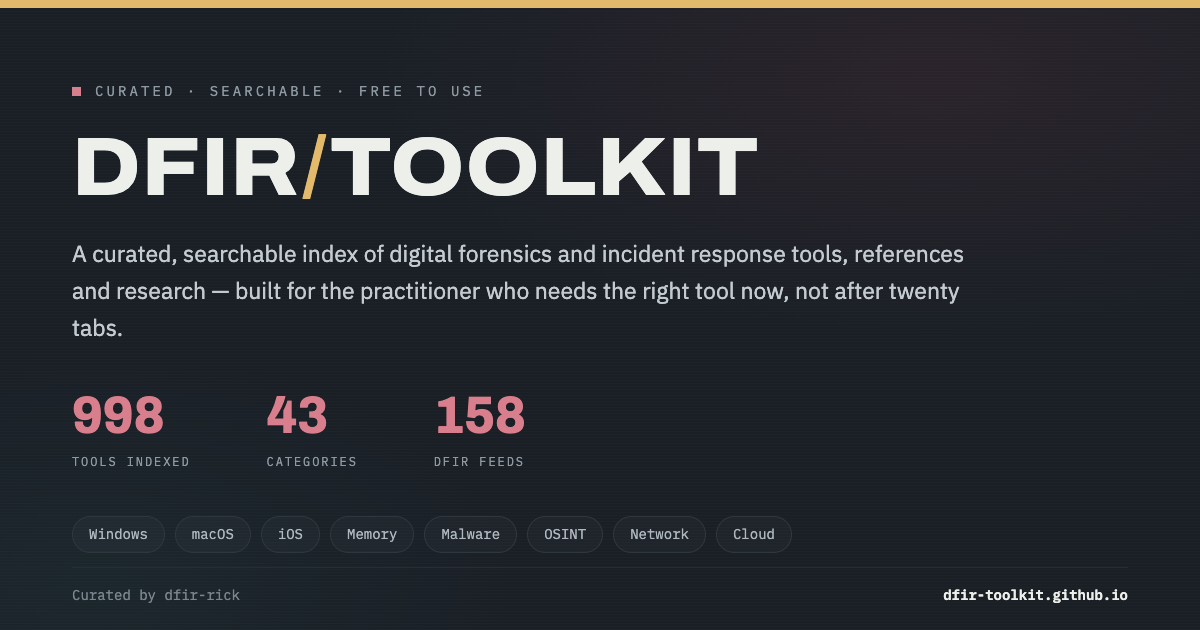
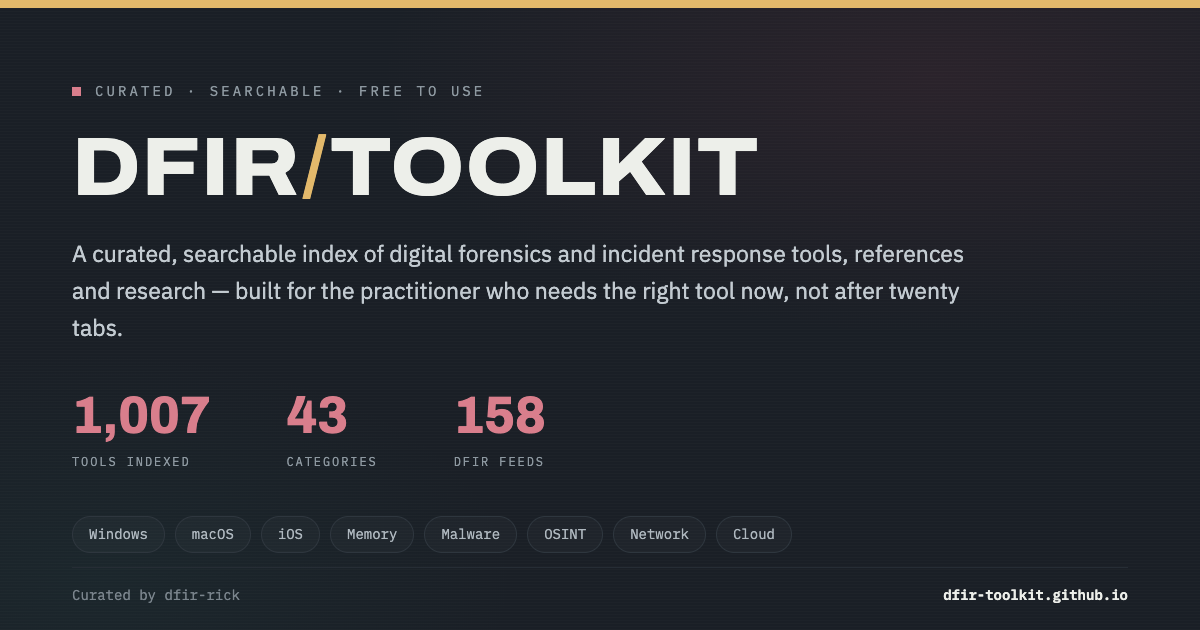
update
tools and search optimizations

diff --git a/index.html b/index.html
@@ -9,24 +9,24 @@
 <meta name="author" content="dfir-rick">
 <meta name="license" content="https://creativecommons.org/licenses/by/4.0/">
 <link rel="license" href="https://creativecommons.org/licenses/by/4.0/">
-<meta name="description" content="DFIR Toolkit — a curated, searchable index of 998 digital forensics and incident response tools, resources and references. Curated by dfir-rick.">
+<meta name="description" content="DFIR Toolkit — a curated, searchable index of 1,007 digital forensics and incident response tools, resources and references. Curated by dfir-rick.">
 <title>DFIR Toolkit — Digital Forensics &amp; Incident Response</title>
 
 <!-- Open Graph / LinkedIn / Facebook preview card -->
 <meta property="og:type" content="website">
 <meta property="og:url" content="https://dfir-toolkit.github.io/">
 <meta property="og:title" content="DFIR Toolkit — Digital Forensics &amp; Incident Response">
-<meta property="og:description" content="A curated, searchable index of 998 digital forensics and incident response tools, references and research. Free, no login, updated continuously.">
+<meta property="og:description" content="A curated, searchable index of 1,007 digital forensics and incident response tools, references and research. Free, no login, updated continuously.">
 <meta property="og:image" content="https://dfir-toolkit.github.io/og-preview.png">
 <meta property="og:image:width" content="1200">
 <meta property="og:image:height" content="630">
-<meta property="og:image:alt" content="DFIR Toolkit — 998 tools indexed across 43 categories">
+<meta property="og:image:alt" content="DFIR Toolkit — 1,007 tools indexed across 43 categories">
 <meta property="og:site_name" content="DFIR Toolkit">
 
 <!-- Twitter/X card (falls back to the same og:image) -->
 <meta name="twitter:card" content="summary_large_image">
 <meta name="twitter:title" content="DFIR Toolkit — Digital Forensics &amp; Incident Response">
-<meta name="twitter:description" content="A curated, searchable index of 998 digital forensics and incident response tools, references and research.">
+<meta name="twitter:description" content="A curated, searchable index of 1,007 digital forensics and incident response tools, references and research.">
 <meta name="twitter:image" content="https://dfir-toolkit.github.io/og-preview.png">
 <link rel="preconnect" href="https://fonts.googleapis.com">
 <link rel="preconnect" href="https://fonts.gstatic.com" crossorigin>
@@ -1202,7 +1202,7 @@ body:has(#opening) .mast{box-shadow:none;border-bottom:none}
     <dt><a href="https://www.sans.org/posters/" data-ext="1" target="_blank" rel="noopener">SANS</a>, <a href="https://www.cisa.gov/" data-ext="1" target="_blank" rel="noopener">CISA</a> &amp; <a href="https://www.nist.gov/" data-ext="1" target="_blank" rel="noopener">NIST</a></dt>
     <dd>Posters, playbooks, reference data and the standards this field is measured against.</dd>
   </dl>
-  <p class="cnote">And to every author of the <span id="creditsCount">998</span> tools listed here. Each remains the property of its
+  <p class="cnote">And to every author of the <span id="creditsCount">1007</span> tools listed here. Each remains the property of its
   creator under its own licence. If your work is described wrongly, that is my error, not theirs.</p>
 </div></div>
 <div class="help" id="help"><div class="help-in">
@@ -1401,7 +1401,9 @@ const T=[
 ["MFTExplorer","https://ericzimmerman.github.io/","GUI for exploring the $MFT as a live folder tree, letting you click through directories and inspect individual file records with all attributes decoded.","free",["win"],["win"],"tool","gui"],
 ["RustyUsn","https://github.com/forensicmatt/RustyUsn","Fast Rust parser for the NTFS USN journal, built for very large journals where Python parsers become impractical.","oss",["win"],["xplat"],"tool","cli"],
 ["INDXParse","https://github.com/williballenthin/INDXParse","Willi Ballenthin's suite for inspecting NTFS INDX records, recovering entries for files deleted from a directory but still present in slack within the index.","oss",["win"],["xplat"],"tool","gui"],
-["Usnjrnl Rewind","https://github.com/CyberCX-DFIR/usnjrnl_rewind","CyberCX script that rewinds the USN journal to rebuild the true full path of every entry, eliminating the Unknown paths that MFTECmd leaves when parent records were reused.","oss",["win"],["win"],"tool","cli"]
+["Usnjrnl Rewind","https://github.com/CyberCX-DFIR/usnjrnl_rewind","CyberCX script that rewinds the USN journal to rebuild the true full path of every entry, eliminating the Unknown paths that MFTECmd leaves when parent records were reused.","oss",["win"],["win"],"tool","cli"],
+["Hex Fiend","https://github.com/HexFiend/HexFiend","macOS hex editor that inserts, deletes and rearranges rather than only overwriting in place, and works on files far larger than RAM — tested past 118 GB, with nothing held in memory. Includes a data inspector that reads a selection as signed or unsigned integer or float in either endianness, binary templates for mapping structure, and a binary diff that accounts for insertions.","oss",["any"],["mac"],"tool","gui"],
+["GNU poke","https://www.jemarch.net/poke","Extensible editor for structured binary data, built around its own domain-specific language for describing formats. Where a hex editor shows bytes, poke lets you define what those bytes mean and then read and edit through that definition.","oss",["any"],["nix","mac"],"tool","cli"]
 ]],
 ["Windows",[
 ["ArtifactExtractor","https://github.com/Silv3rHorn/ArtifactExtractor","Extracts common Windows artifacts from forensic images and volume shadow copies, hashing artifacts in each VSC so only versions that differ from a later copy are pulled. Saves the manual work of mounting each shadow copy in turn.","oss",["win"],["win"],"tool","cli"],
@@ -1644,7 +1646,7 @@ const T=[
 ["Smap","https://github.com/s0md3v/Smap","Drop-in Nmap replacement that queries Shodan's data instead of scanning, giving port and service information without touching the target.","oss",["net"],["xplat"],"tool","cli"],
 ["dirsearch","https://github.com/maurosoria/dirsearch","Web path discovery tool for enumerating directories and files on a web server, useful when reconstructing what an attacker probed or what was exposed.","oss",["net"],["web"],"tool","web"],
 ["Feroxbuster","https://github.com/epi052/feroxbuster","Fast recursive content discovery tool for web servers, written in Rust with sensible defaults for deep enumeration.","oss",["net"],["xplat"],"tool","cli"],
-["SO-CRATES","https://github.com/dougburks/so-crates","Security Onion Containerized Rapid Analysis of Threats, Evil, and Sus. Spins up containerised Security Onion analysis for fast triage of a capture without standing up the full platform.","oss",["net"],["nix"],"tool","cli"],
+["SO-CRATES","https://github.com/dougburks/so-crates","Security Onion Containerized Rapid Analysis of Threats, Evil, and Sus. Standalone web application that takes a pcap, a log file or a binary and analyses it in place: Suricata for network traffic, YARA against binaries, Sigma rules over logs, with one page for browsing the resulting alerts, metadata, transcripts and hexdumps. Runs under Docker or Podman, so a capture gets triaged without standing up the full platform.","oss",["any"],["nix"],"tool","web"],
 ["Wireshark","https://www.wireshark.org/","The reference packet analyser, with dissectors for thousands of protocols. Follow streams, export objects, and build display filters that isolate exactly the traffic in question. tshark handles the same work on captures too large for the GUI.","oss",["net"],["xplat"],"tool","gui"],
 ["tcpdump","https://www.tcpdump.org/","Portable libpcap capture tool present on nearly every Unix system. When you need packets from a server right now with nothing installed, this is what is already there.","oss",["net"],["nix"],"tool","cli"],
 ["NetworkMiner","https://www.netresec.com/?page=NetworkMiner","Passive analysis tool that reorganises a capture by host rather than by packet, extracting transferred files, images, credentials and certificates automatically. Often answers what was taken faster than filtering packets by hand.","free",["net"],["win"],"tool","gui"],
@@ -1823,7 +1825,10 @@ const T=[
 ["Rumkin Cipher Tools","https://rumkin.com/tools/cipher/","Long-standing collection of classical cipher encoders and decoders, still the quickest option for the traditional schemes.","free",["any"],["web"],"tool","web"],
 ["StegOnline","https://georgeom.net/StegOnline/","Browser tool for exploring bit planes, extracting LSB data and inspecting image structure. Practical for steganography questions and for CTF-style challenges.","oss",["any"],["web"],"tool","web gui"],
 ["zsteg","https://github.com/zed-0xff/zsteg","Detects LSB steganography and hidden data in PNG and BMP files, testing many bit-order and channel combinations automatically rather than requiring you to guess.","oss",["any"],["nix","mac"],"tool","cli"],
-["Aletheia","https://github.com/daniellerch/aletheia","Steganalysis by machine learning rather than signature — detects F5, Steghide, Outguess, nsF5, J-UNIWARD, LSB replacement and matching, and adaptive schemes in JPEG and uncompressed images, reporting a probability per method with a confidence figure. Answers whether a picture is carrying a payload, which the stego extraction tools cannot.","oss",["any"],["xplat"],"tool","cli"]
+["Aletheia","https://github.com/daniellerch/aletheia","Steganalysis by machine learning rather than signature — detects F5, Steghide, Outguess, nsF5, J-UNIWARD, LSB replacement and matching, and adaptive schemes in JPEG and uncompressed images, reporting a probability per method with a confidence figure. Answers whether a picture is carrying a payload, which the stego extraction tools cannot.","oss",["any"],["xplat"],"tool","cli"],
+["fq","https://github.com/wader/fq","jq for binary formats: a structural hex viewer with a query language, so you interrogate bytes instead of counting them by eye. Decodes nested formats down to bit level and slices binary data, covering bplist, apple_bookmark, protobuf, leveldb, pcap, mach-o, elf and around 150 others. The interactive REPL makes it a good way to learn how a format is actually laid out.","oss",["any"],["xplat"],"tool","cli"],
+["hexyl","https://github.com/sharkdp/hexyl","Terminal hex viewer that colours bytes by category — nulls, printable ASCII, whitespace, other ASCII, non-ASCII — so structure and padding are visible at a glance rather than inferred from a wall of digits. Packaged for most distributions, macOS and Windows.","oss",["any"],["xplat"],"tool","cli"],
+["xxd","https://man7.org/linux/man-pages/man1/xxd.1.html","Makes a hex dump, and reverses one back into binary — the second half being what turns it into a patching tool. Ships with vim, so it is present on almost any Linux or macOS host without installing anything.","oss",["any"],["nix","mac"],"tool","cli"]
 ]],
 ["Malware Analysis & Sandboxes",[
 ["Valhalla","https://valhalla.nextron-systems.com/","Nextron's curated, quality-tested YARA rule feed — the rule source behind their THOR and LOKI scanners, with a free public tier searchable by hash, filename or rule name. Useful independent of Nextron's own tools: check a hash or sample against Valhalla's rule set even if you are running a different YARA-based scanner.","free",["any"],["web"],"intel",""],
@@ -1888,7 +1893,8 @@ const T=[
 ["Apktool","https://apktool.org/","Decodes an APK back to near-original form — resources to readable XML, AndroidManifest.xml out of binary encoding, code to smali — then rebuilds and resigns it. The first step in almost any APK examination, since a packaged manifest tells you nothing until it is decoded.","oss",["and"],["xplat"],"tool","cli"],
 ["Androguard","https://github.com/androguard/androguard","Python library and CLI for dissecting APK, DEX and ODEX: permissions, activities, receivers, certificates, strings, and call graphs you can query programmatically. The engine several other Android analysis tools are built on, and the right choice when you need to script across a corpus of apps rather than examine one.","oss",["and"],["xplat"],"tool","cli"],
 ["MobSF (Mobile Security Framework)","https://github.com/MobSF/Mobile-Security-Framework-MobSF","Static and dynamic analysis of mobile app binaries — APK, IPA, APPX and source — through a web UI: permissions, hardcoded secrets, certificate details, trackers, network calls, and an instrumented runtime for Android and iOS. Runs in Docker, so a suspect app can be examined without installing an analysis stack on the host.","oss",["and","ios"],["xplat"],"tool","gui web"],
-["objection","https://github.com/sensepost/objection","Frida-powered runtime exploration of a mobile app without jailbreaking or rooting: browse the app sandbox, dump keychain and shared preferences, inspect classes and invoke methods on a live process. Useful when an app holds evidence only in memory or decrypts it on demand.","oss",["and","ios"],["xplat"],"tool","cli"]
+["objection","https://github.com/sensepost/objection","Frida-powered runtime exploration of a mobile app without jailbreaking or rooting: browse the app sandbox, dump keychain and shared preferences, inspect classes and invoke methods on a live process. Useful when an app holds evidence only in memory or decrypts it on demand.","oss",["and","ios"],["xplat"],"tool","cli"],
+["Kaitai Struct","https://kaitai.io/","Declarative language for describing binary formats, which then compiles into parsing code for a dozen languages — describe a structure once instead of writing a parser per language. The web IDE parses a file against a definition and shows the hex alongside the resolved tree, which is a fast way to work out an undocumented format.","oss",["any"],["xplat","web"],"tool","gui cli"]
 ]],
 ["Ransomware",[
 ["ID Ransomware","https://id-ransomware.malwarehunterteam.com/","Identifies which ransomware family hit you from a ransom note, a sample encrypted file, or the attacker contact details. Covers 1,000+ families. The first thing to run, because family identification determines whether a free decryptor exists.","free",["any"],["web"],"tool","web"],
@@ -2092,7 +2098,9 @@ const T=[
 ["Object by Object — RealmDB Forensics with crush","https://bebinary4n6.blogspot.com/2026/05/object-by-object-realmdb-forensics-with.html","Realm internals for examiners: how the header, schema and class definitions are laid out, how top-ref comparison exposes earlier states of the database, and what that means when an app stores its data in Realm rather than SQLite.","free",["any"],["web"],"reference",""],
 ["Reading the CURRENT — LevelDB Forensics with crush","https://bebinary4n6.blogspot.com/2026/05/reading-current-leveldb-forensics-with.html","LevelDB is a folder, not a file — .log and .ldb files alongside MANIFEST, CURRENT and LOG — which is why tools built around single-file signatures walk straight past it. Covers tombstones, compaction and what survives deletion in Chrome, Electron apps, iOS and Android.","free",["any"],["web"],"reference",""],
 ["Beyond the C — SEGB and Biome Forensics with crush","https://bebinary4n6.blogspot.com/2026/05/beyond-c-segb-and-biome-forensics-with.html","SEGB v1 and v2 structure, the trailer section iOS 17 added, and how Apple Biome records decode once the protobuf payloads are unpacked — including the nested and repeated fields most viewers flatten or drop.","free",["ios","mac"],["web"],"reference",""],
-["Reading Protobuf Wire Format Without a Map","https://bebinary4n6.blogspot.com/2026/06/reading-wire-protobuf-without-map.html","How to read protobuf when you have no .proto schema: field numbers, wire types, and what can and cannot be recovered from the bytes alone. The reference for every BLOB in a mobile database that turns out to be protobuf.","free",["any"],["web"],"reference",""]
+["Reading Protobuf Wire Format Without a Map","https://bebinary4n6.blogspot.com/2026/06/reading-wire-protobuf-without-map.html","How to read protobuf when you have no .proto schema: field numbers, wire types, and what can and cannot be recovered from the bytes alone. The reference for every BLOB in a mobile database that turns out to be protobuf.","free",["any"],["web"],"reference",""],
+["ImHex Pattern Library","https://github.com/WerWolv/ImHex-Patterns","Community database of format definitions for ImHex, including a DFIR set: NTFS, exFAT and FAT32 with a recursive disk and volume parser, plus $I Recycle Bin records, prefetch, Shell Link (.lnk), EVTX, thumbcache, the shim database and Notepad cache and state files. Load one and the raw bytes resolve into named fields, which is the fastest way to see how an artifact is really built. Also ships custom character encodings including EBCDIC and Shift-JIS.","oss",["any"],["xplat"],"tool","gui"],
+["Kaitai Struct Format Gallery","https://formats.kaitai.io/","Machine-readable specifications for a few hundred file formats and network protocols, each with the field layout, types and offsets. Useful as documentation even when you never run the compiler: it answers what byte 8 of a header means.","oss",["any"],["web"],"reading","web"]
 ]],
 ["Standards & Methodology",[
 ["Blue Team Handbook: Incident Response Edition","https://www.amazon.com/Blue-Team-Handbook-Incident-Response/dp/1500734756","Don Murdoch's zero-fluff field reference for incident responders covering the IR process, attacker methodology, common tools, network analysis methodology, IOC identification, Windows and Linux analysis, tcpdump and Snort usage. Designed to sit on the desk during an active incident.","com",["any"],["web"],"reference",""],
@@ -2299,7 +2307,8 @@ const T=[
 ["CAINE","https://www.caine-live.net/","Italian live forensic distribution with write-blocking enabled by default and a coherent GUI over the underlying tools. Popular for on-scene work where booting the suspect machine is unavoidable.","oss",["any"],["nix"],"tool","gui cli"],
 ["Tsurugi Linux","https://tsurugi-linux.org/","DFIR and OSINT distribution shipping in lab, acquisition and bento editions. Includes tooling other distributions omit, particularly for OSINT and malware analysis.","free",["any"],["nix"],"tool","gui cli"],
 ["Kali Linux","https://www.kali.org/","Primarily an offensive security distribution, but its forensic boot mode disables swap and auto-mounting for safe examination, and it carries a substantial forensic tool set.","oss",["any"],["nix"],"tool","gui cli"],
-["FLARE VM","https://github.com/mandiant/flare-vm","Mandiant's install script that converts a clean Windows VM into a fully equipped malware analysis workstation. Package-based, so you can update the toolset without rebuilding the machine.","oss",["any"],["win"],"tool","cli"]
+["FLARE VM","https://github.com/mandiant/flare-vm","Mandiant's install script that converts a clean Windows VM into a fully equipped malware analysis workstation. Package-based, so you can update the toolset without rebuilding the machine.","oss",["any"],["win"],"tool","cli"],
+["Win-FOR","https://github.com/digitalsleuth/WIN-FOR","Turns a bare Windows 11 VM into a forensic workstation through a graphical installer: tick the tools you want rather than taking all of them, and optionally install WSLv2 with SIFT, REMnux, Kali or all three alongside. Selections save to a SaltStack state file, so a lab build is reproducible and documented rather than remembered. An offline mode downloads the packages first for transfer to an air-gapped machine.","oss",["any"],["win"],"tool","gui"]
 ]],
 ["Test Images & Datasets",[
 ["DFIR Artifact Museum","https://github.com/AndrewRathbun/DFIRArtifactMuseum","Community archive of real artifacts collected from many operating system versions and sorted by type, so a parser can be written or validated against known data without generating it first. Useful for tool validation and for seeing what an artifact looks like on a platform you do not run.","oss",["win","mac","nix","ios","and"],["xplat"],"reference",""],
@@ -2370,7 +2379,17 @@ const CAPS = {
  "Hayabusa":"evtx event logs sigma detection rules timeline windows",
  "Zircolite":"evtx event logs sigma detection rules auditd",
  "KStrike":"user access logging ual windows server",
- "Timesketch":"plaso timeline supertimeline collaboration analysis"
+ "Timesketch":"plaso timeline supertimeline collaboration analysis",
+ "fq":"hex hexadecimal binary structure endianness bit offset byte order structural hex viewer bplist protobuf leveldb pcap",
+ "hexyl":"hex hexadecimal hex dump byte offset ascii null byte",
+ "xxd":"hex hexadecimal hex dump byte offset patching",
+ "Hex Fiend":"hex hexadecimal hex editor endianness big endian little endian data inspector binary template byte offset binary diff",
+ "GNU poke":"hex hexadecimal binary structure byte offset endianness",
+ "Kaitai Struct":"hex hexadecimal binary structure file format specification offset endianness magic byte file signature header",
+ "ImHex Pattern Library":"hex hexadecimal binary template pattern file signature magic byte header offset ntfs exfat fat32 prefetch lnk evtx thumbcache recycle bin shim database encoding ebcdic",
+ "Kaitai Struct Format Gallery":"hex hexadecimal file format specification header offset endianness magic byte file signature",
+ "Win-FOR":"forensic workstation lab build sift remnux kali wsl saltstack provisioning offline install",
+ "SO-CRATES":"pcap packet capture suricata yara sigma hexdump transcript alert triage"
 };
 
 /* Interface: GUI, command line, or runs in a browser. Not a field in the data,
@@ -2450,6 +2469,13 @@ function buildItems(){
                                          : ifaceOf(n, d, runs, type, u, c);
     ITEMS.push({i:ID++, n, u, d, c, p, runs, cat, custom:!!isCustom,
       orig:orig||null, k:n+"|"+cat, type, caps, iface,
+      /* Per-field lowercase copies so relevance can tell WHERE a term matched,
+         not just whether it did. */
+      nl:n.toLowerCase(), dl:d.toLowerCase(), catl:cat.toLowerCase(),
+      /* The opening of a description is where a tool states its purpose, so a
+         term appearing there outranks the same term mentioned in passing. */
+      dl0:d.slice(0,90).toLowerCase(),
+      capl:(caps||"").toLowerCase(),
       hay:(n+" "+d+" "+cat+" "+p.map(x=>PLAT[x]).join(" ")+" "
            +runs.map(x=>HOST[x]).join(" ")+" "+COST[c][0]+" "+type+" "+caps+" "+[...iface].map(x=>IFACE[x]).join(" ")+" "+[...iface].join(" ")).toLowerCase()});
   };
@@ -2619,7 +2645,16 @@ const ALSO_IN={
  "objection":["Android","iOS"],
  "quark-engine":["Android","Reverse Engineering & Debugging"],
  "Linpmem":["Linux"],
- "Aletheia":["Image & Video"]
+ "Aletheia":["Image & Video"],
+ "fq":["Logs & Data Processing","Reverse Engineering & Debugging"],
+ "hexyl":["Linux"],
+ "xxd":["Linux","macOS"],
+ "Hex Fiend":["macOS"],
+ "GNU poke":["Linux"],
+ "Kaitai Struct":["Ciphers & Decoding","Artifact References"],
+ "ImHex Pattern Library":["Disk & File System","Windows"],
+ "Kaitai Struct Format Gallery":["Standards & Methodology"],
+ "Win-FOR":["Workstation & General","Windows"]
 };
 const ACCENT={};
 GROUPS.forEach(([label,list],i)=>list.forEach(c=>ACCENT[c]="var(--g"+(i+1)+")"));
@@ -2982,8 +3017,19 @@ function extQuery(t){
 const esc4re=s=>s.replace(/[.*+?^${}()|[\]\\]/g,"\\$&");
 const hitShort=(hay,a)=>new RegExp("(?:^|[^a-z0-9])"+esc4re(a)+"(?:[^a-z0-9]|$)").test(hay);
 const hitExt=(hay,a)=>new RegExp("(?:^|[^a-z0-9])"+esc4re(a)+"s?(?:[^a-z0-9]|$)").test(hay);
-const hitPhrase=(hay,a)=>a.length<3?hitShort(hay,a)
-  :variants(a).some(v=>v.length>2&&hay.includes(v));
+/* The term as typed is matched as a substring, so "prefetch" still finds
+   WinPrefetchView. Generated stems are NOT: stemming "carving" yields "carv",
+   and a raw substring match on that hits "Harlan Carvey's", which put a registry
+   parser in the top tier of a carving search. Stems instead match on a word
+   boundary with a controlled set of inflectional endings, so "carv" reaches
+   carve, carved, carver and carving but never Carvey. */
+const STEM_SUF="(?:e|es|ed|s|ing|ings|er|ers|ion|ions)?";
+const hitStem=(hay,s)=>new RegExp("(?:^|[^a-z0-9])"+esc4re(s)+STEM_SUF+"(?:[^a-z0-9]|$)").test(hay);
+const hitPhrase=(hay,a)=>{
+  if(a.length<3) return hitShort(hay,a);
+  if(hay.includes(a)) return true;
+  return variants(a).slice(1).some(v=>v.length>2&&hitStem(hay,v));
+};
 function hit(hay,t){
   const ex=extQuery(t);
   /* Single-word mappings are boundary-matched for the same reason the bare token
@@ -3010,17 +3056,23 @@ function hl(text){
   const ts=terms(); let out=esc(text);
   if(!ts.length) return out;
   const esc2=x=>x.replace(/[.*+?^${}()|[\]\\]/g,"\\$&");
-  const long=[...new Set(ts.flatMap(t=>variants(t).filter(v=>v.length>2)))]
+  /* Terms as typed highlight as plain substrings; generated stems get the same
+     bounded treatment hit() gives them, so a "carving" search does not mark
+     "Carv" inside "Carvey". */
+  const long=[...new Set(ts.filter(t=>t.length>2))]
     .sort((a,b)=>b.length-a.length).map(esc2);
+  const stems=[...new Set(ts.flatMap(t=>variants(t).slice(1).filter(v=>v.length>2)))]
+    .filter(v=>!long.includes(v)).sort((a,b)=>b.length-a.length).map(esc2);
   /* Short terms match on a word boundary in hit(), so highlight them the same
      way — an unbounded substring would mark the "ip" inside "script". Never let
      pats end up empty: new RegExp("()") matches at every position and wraps a
      <mark> around every character in the card. */
   const short=[...new Set(ts.filter(t=>t.length<3))].map(esc2);
   let re=null;
-  if(long.length||short.length){
+  if(long.length||short.length||stems.length){
     try{
-      const bounded=short.map(a=>"(?<![a-z0-9])"+a+"(?![a-z0-9])");
+      const bounded=short.map(a=>"(?<![a-z0-9])"+a+"(?![a-z0-9])")
+        .concat(stems.map(a=>"(?<![a-z0-9])"+a+STEM_SUF+"(?![a-z0-9])"));
       re=new RegExp("("+long.concat(bounded).join("|")+")","ig");
     }catch(e){ re=long.length?new RegExp("("+long.join("|")+")","ig"):null; }
   }
@@ -3070,11 +3122,41 @@ function capTags(it){
   if(!found.length) return "";
   return found.slice(0,3).map(t=>'<span class="tag cap" title="Handles this artifact — not named in the description above">\u25C6 '+esc(t)+'</span>').join("");
 }
+/* Relevance. A broad collection suite matches an artifact only through the
+   capability index — KAPE, FTK Imager and Autopsy never say "prefetch" in their
+   own description — while a dedicated parser names it outright. Weighting the
+   field a term matched in therefore separates the tool that answers the query
+   from the tool that merely bags the file, without needing a hand-maintained
+   list of which is which. Zero when nothing is typed, so browsing keeps its
+   normal order. */
+/* A tool sitting in the category named for the query is a stronger signal than
+   a suite that mentions the word once in passing, so catl outranks dl. */
+const FIELD_W=[["nl",100],["dl0",45],["catl",35],["dl",30],["capl",4]];
+function matchScore(it){
+  const gs=groups();
+  if(!gs.length) return 0;
+  let best=0;
+  for(const g of gs){
+    let sum=0, ok=true;
+    for(const t of g){
+      let w=0;
+      for(const fw of FIELD_W) if(hit(it[fw[0]],t)){ w=fw[1]; break; }
+      /* Matched only on platform, cost or interface metadata. */
+      if(!w) w = hit(it.hay,t) ? 1 : 0;
+      if(!w){ ok=false; break; }
+      sum+=w;
+    }
+    if(ok && sum>best) best=sum;
+  }
+  return best;
+}
+
 const visible=()=>ITEMS.filter(match);
 const pinnedItems=()=>[...state.pins].map(k=>ITEMS.find(x=>x.k===k)).filter(Boolean);
 
 function render(){
   const vis=visible(), R=$("#results");
+  syncSortLabel();
   /* A query runs across every entry, so a tool search drags in every blog
      post and cheat sheet that merely mentions the artifact. Tools answer the
      query; the reading material collapses underneath rather than disappearing,
@@ -3116,11 +3198,38 @@ function render(){
       });
     });
     const keys=new Set([...byCat.keys(),...xtra.keys()]);
-    const ordered=cats().filter(c=>keys.has(c)).map(c=>{
-      const own=(byCat.get(c)||[]).slice().sort(byName);
-      const alt=(xtra.get(c)||[]).slice().sort(byName);
+    /* While searching, order by relevance instead of taxonomy: strongest match
+       first within a category, and categories themselves ranked by their best
+       match, so searching an artifact leads with the tools built for it rather
+       than whichever category happens to come first in the taxonomy. Without a
+       query this is inert and the normal category order and A-Z hold. */
+    const ranked = !!state.q.trim();
+    const score=new Map();
+    const sc=it=>{ const k=it.k+"|"+(it.xref||""); if(!score.has(k)) score.set(k,matchScore(it)); return score.get(k); };
+    const byRank=(a,b)=>sc(b)-sc(a)||byName(a,b);
+    const cmp = ranked?byRank:byName;
+    let ordered=cats().filter(c=>keys.has(c)).map(c=>{
+      const own=(byCat.get(c)||[]).slice().sort(cmp);
+      const alt=(xtra.get(c)||[]).slice().sort(cmp);
       return [c,own.concat(alt)];
     });
+    /* Ordering categories by their single best match ties too easily — six
+       categories peaked at 45 for "carving", so taxonomy order decided it and
+       the category actually named "Recovery & Carving" came fourth. Rank by the
+       depth of strong matches (top three scores summed), and lift a category
+       whose own name answers the query above every category that merely
+       contains a match. */
+    if(ranked){
+      const gs=groups();
+      const nameMatch=c=>{ const cl=c.toLowerCase(); return gs.length&&gs.some(g=>g.every(t=>hit(cl,t))); };
+      ordered=ordered
+        .map(e=>{
+          const top=e[1].map(sc).sort((x,y)=>y-x).slice(0,3).reduce((x,y)=>x+y,0);
+          return [e[0],e[1],(nameMatch(e[0])?1000:0)+top];
+        })
+        .sort((a,b)=>b[2]-a[2])
+        .map(e=>[e[0],e[1]]);
+    }
     R.innerHTML=ordered.map(([cat,rows])=>`
       <section class="sec" id="${slug(cat)}" style="--acc:${accOf(cat)}">
         <div class="sechead"><span class="ico">${iconFor(cat)}</span><h3>${cat}</h3><span class="n">${rows.length}</span>
@@ -4131,10 +4240,21 @@ function setDense(v){
   state.dense=v; document.body.classList.toggle("list",v);
   $("#densityBtn").setAttribute("aria-pressed",v); saveState();
 }
-$("#sortBtn").onclick=e=>{
+/* While searching, the default order is relevance rather than taxonomy, so the
+   control has to say so — a button reading "Category" above a relevance-ordered
+   list is simply wrong. Driven from render() so it also tracks typing. */
+function syncSortLabel(){
+  const b=$("#sortBtn"); if(!b) return;
+  const searching=!!state.q.trim();
+  b.textContent = state.sort==="cat" ? (searching?"Sort: Relevance":"Sort: Category") : "Sort: A\u2013Z";
+  b.title = state.sort==="cat"
+    ? (searching ? "Best matches first, then by category. Click for one flat A\u2013Z list."
+                 : "Grouped by category, A\u2013Z within each. Click for one flat A\u2013Z list.")
+    : "One flat A\u2013Z list. Click to group by category.";
+}
+$("#sortBtn").onclick=()=>{
   state.sort = state.sort==="cat" ? "az" : "cat";
-  e.target.textContent = state.sort==="cat" ? "Sort: Category" : "Sort: A–Z";
-  render();
+  syncSortLabel(); render();
 };
 $("#expBtn").onclick=()=>copy(md(visible(),"DFIR Toolkit — selected tools"),
   `Copied ${visible().length} tools (full detail)`);
